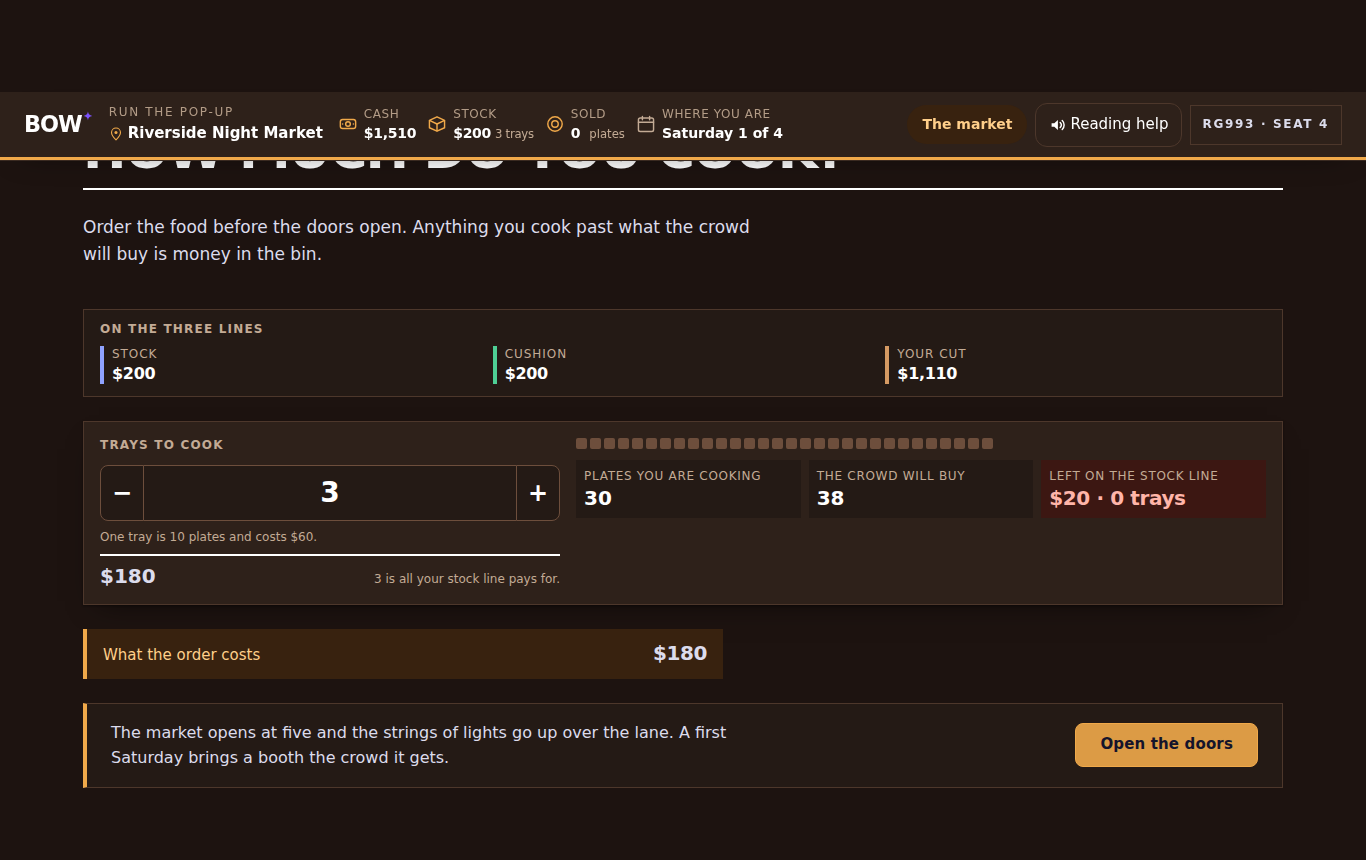
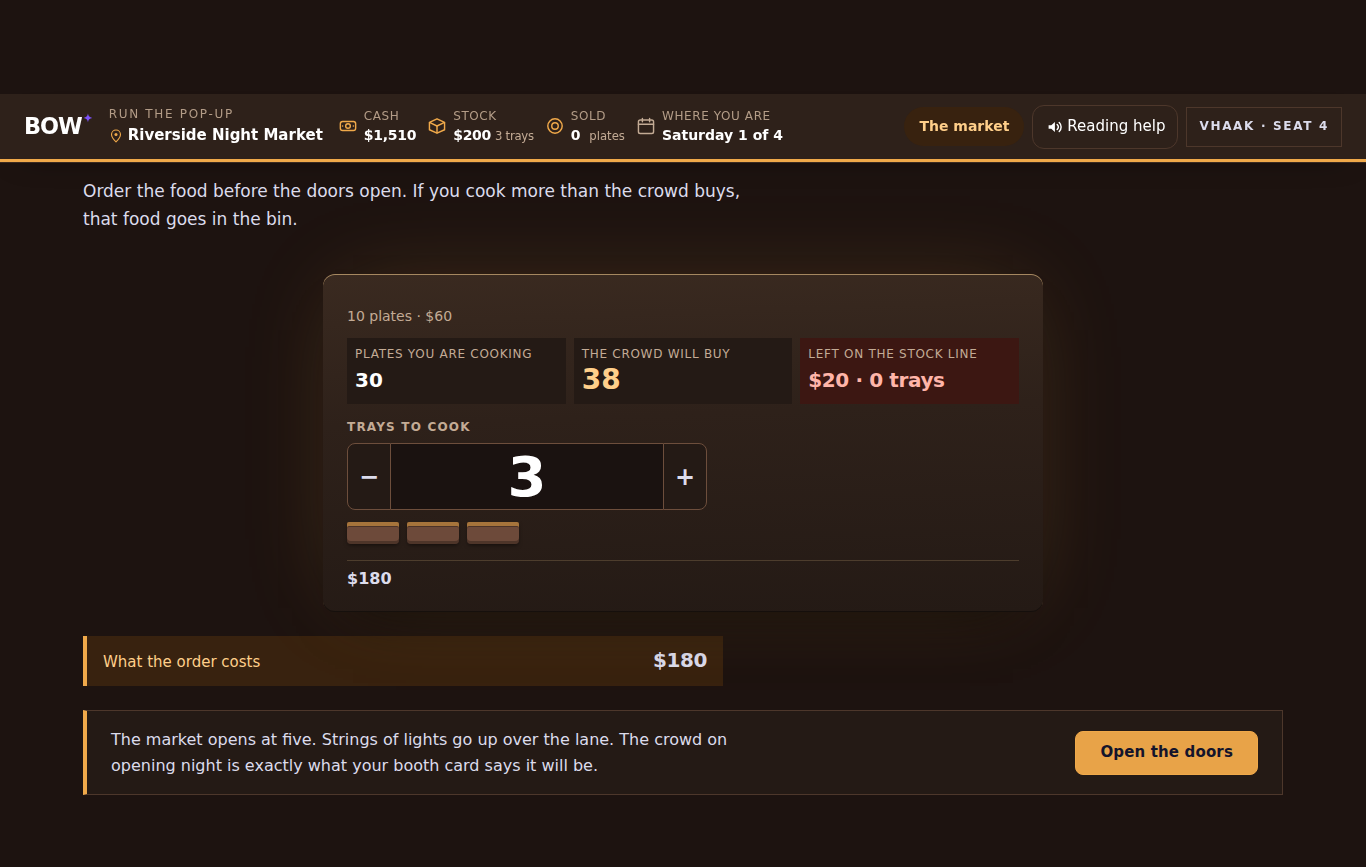
Light the counter, because a black shadow on a black lane is nothing
The Counter landed built exactly to its brief, and the brief was wrong about one thing.

It specified separation by a two-part light model rather than a border, and gave
`0 24px 60px -28px rgb(0 0 0 / 85%)` as the contact shadow. That was implemented
faithfully and rendered as nothing: the market's canvas is `#17100e`, and 85% black
over near-black darkens nothing. The slab arrived as a slightly different shade of
brown — which is the exact failure the whole redesign existed to fix, "dark surfaces
separated mainly by borders", with the border swapped for an even quieter edge.

`tokens.css` already says this in writing about the dark ground: depth here is carried
by the surface ramp and by light, not by shade. The brief forgot the world it was for,
and a screenshot found it in about four seconds where reading the CSS would not have —
the CSS was correct.

So the counter is lit. A top-to-bottom gradient so the surface is brighter where the
lamp hits it, a rim light along the top edge at an opacity you can actually see, and a
wide amber bloom beneath it — the lantern this world's art direction has been
describing since the lane was first drawn. The black shadow stays as the smallest of
the four effects rather than the load-bearing one.

The trays read as trays now: shallow pans with food along the top edge, wide and flat,
at a size worth looking at.

One thing I got wrong and reversed. I deleted the order's own total on the grounds that
[…]

diff --git a/src/design/worlds.css b/src/design/worlds.css
@@ -508,14 +508,41 @@
    shadow beneath it, a lantern highlight along its top edge, the same amber a bulb on the
    wire would throw. `box-shadow`, not `border: 1px`, doing the work a line was doing before.
    --------------------------------------------------------------------------- */
+
+/*
+ * Ramos's counter: the one lit thing on a dark lane.
+ *
+ * The build brief specified separation by a two-part light model rather than a stroke, and
+ * gave `0 24px 60px -28px rgb(0 0 0 / 85%)` for the contact shadow. That was implemented
+ * faithfully and rendered as nothing, because **a black shadow on a near-black ground has
+ * nothing to darken** — the market's canvas is `#17100e`, and 85% black over it is 85% black.
+ * `tokens.css` already says this in writing about `.ground-dark`: depth here is carried by the
+ * surface ramp and by light, not by shade. The brief forgot its own world.
+ *
+ * So the slab is lit instead. Three sources, all warm, none of them a border:
+ *   - a top-to-bottom gradient, so the surface itself is brighter where the lamp hits it;
+ *   - a rim light along the top edge at an opacity you can actually see (14% was invisible);
+ *   - a wide amber bloom underneath, which is the lantern the world's own art direction has
+ *     been describing since the lane was first drawn.
+ * The contact shadow stays, but as the smallest of the four effects rather than the load-
+ * bearing one.
+ */
 .tray-order {
+  position: relative;
   display: grid;
   gap: var(--s-4);
-  max-width: 720px;
-  padding: var(--s-6);
-  background: var(--surface-raised);
+  width: min(720px, 100%);
+  margin-inline: auto;
+  padding: var(--s-7) var(--s-6) var(--s-6);
+  background:
+    linear-gradient(178deg, #3a2a20 0%, var(--surface-raised) 42%, #241a15 100%);
   border: 0;
-  box-shadow: 0 24px 60px -28px rgb(0 0 0 / 85%), inset 0 1px 0 rgb(240 179 82 / 14%);
+  border-radius: var(--r-md);
+  box-shadow:
+    inset 0 1px 0 rgb(255 214 150 / 55%),
+    inset 0 -1px 0 rgb(0 0 0 / 40%),
+    0 0 90px -20px rgb(240 169 74 / 22%),
+    0 26px 50px -30px rgb(0 0 0 / 90%);
 }
 
 /* What a tray is and what it costs, read once at the top of the slab rather than argued for
@@ -570,8 +597,11 @@
 }
 .count-control input:focus-visible { position: relative; z-index: 1; outline: 3px solid var(--focus-ring); outline-offset: -3px; }
 
-.tray-order__cost { margin: 0; padding-top: var(--s-3); border-top: 2px solid var(--border-ink); }
-.tray-order__cost span { font: var(--m-md); font-feature-settings: var(--num); }
+/* A readout, not a headline: the same figure is in the sum's settled row below, and the one
+   that matters on this slab is the tray count. A hairline rather than a 2px ink rule, because
+   on a lit surface a hard black line is a crack in it. */
+.tray-order__cost { margin: 0; padding-top: var(--s-3); border-top: 1px solid rgb(255 214 150 / 18%); }
+.tray-order__cost span { color: var(--ink-2); font: var(--m-sm); font-feature-settings: var(--num); }
 
 /* A third the weight of the control, measured: the split note, the hands-bound warning and
    the band note are all read here, and none of them is the answer to the sum on the screen. */
@@ -586,19 +616,27 @@
 /* Trays, not plates. A tray is wide and flat and reads as a crate of food; a plate reads as a
    countable dot, and a row of countable dots beside a crowd figure is a ruler. See the comment
    at the call site in `PopUpScreens.tsx` for the arithmetic this protects. */
-.tray-stack { display: flex; flex-wrap: wrap; gap: 6px; margin: 0; min-height: 16px; }
+.tray-stack { display: flex; flex-wrap: wrap; gap: 8px; margin: var(--s-2) 0 0; min-height: 22px; }
 
+/* A tray on a lit counter: a shallow metal pan with food showing along the top edge. Wide and
+   flat so it cannot be counted against a crowd figure the way a row of round plate marks could,
+   and warm enough to read as stock rather than as a progress bar. */
 .tray-stack i {
-  width: 38px;
-  height: 14px;
+  width: 52px;
+  height: 22px;
   display: block;
-  border-radius: 2px;
-  box-shadow: inset 0 3px 0 rgb(0 0 0 / 22%);
+  border-radius: 2px 2px 4px 4px;
+  box-shadow:
+    inset 0 4px 0 rgb(240 169 74 / 55%),
+    inset 0 5px 0 rgb(0 0 0 / 30%),
+    inset 0 -3px 0 rgb(0 0 0 / 28%),
+    0 2px 4px -1px rgb(0 0 0 / 55%);
 }
 
 /* An order draws what is being cooked and nothing about how it lands. Colouring the plates
    sold and binned before the night happened answered the question the screen is asking. */
-.tray-stack i[data-state="cooking"], .night__plates i[data-state="cooking"] { background: var(--border-strong); }
+.tray-stack i[data-state="cooking"] { background: #6d4a3a; }
+.night__plates i[data-state="cooking"] { background: var(--border-strong); }
 .night__plates i[data-state="sold"] { background: var(--plate-sold); }
 .night__plates i[data-state="binned"] { background: var(--pat-over); border: 1px solid var(--fin-over); }
 .night { display: grid; gap: var(--s-3); padding: var(--s-5); background: var(--surface-raised); border: 1px solid var(--border-default); border-left: 4px solid var(--world-accent); }

diff --git a/src/stages/popup/PopUpScreens.tsx b/src/stages/popup/PopUpScreens.tsx
@@ -283,7 +283,15 @@ function TrayOrder({ saturday, nights, max, trays, onTrays, pricing = "settled",
       </div>
       {/* No empty element while the sum is open: a row with nothing in it still takes up the
           gap this grid gives every row, and a blank beat where the total belongs reads as the
-          screen having lost its place. */}
+          screen having lost its place.
+
+          Once settled, the total stays on the instrument. It does read twice on the screen —
+          here, and in the sum's own settled row below — and I tried removing it, which
+          `lastSaturday.test.tsx` correctly refused: the two are not the same statement. The
+          sum's row is the record that the student worked it out; this is the order's own
+          total, sitting beside what it leaves, where the next decision is made. What was
+          wrong was its weight, not its presence, so it is a readout now rather than a
+          headline. */}
       {pricing === "settled" && (
         <p className="tray-order__cost">
           <span>{formatDollars(cost)}{nights === 2 ? ` ${COPY.saturday.bothNights}` : ""}</span>
